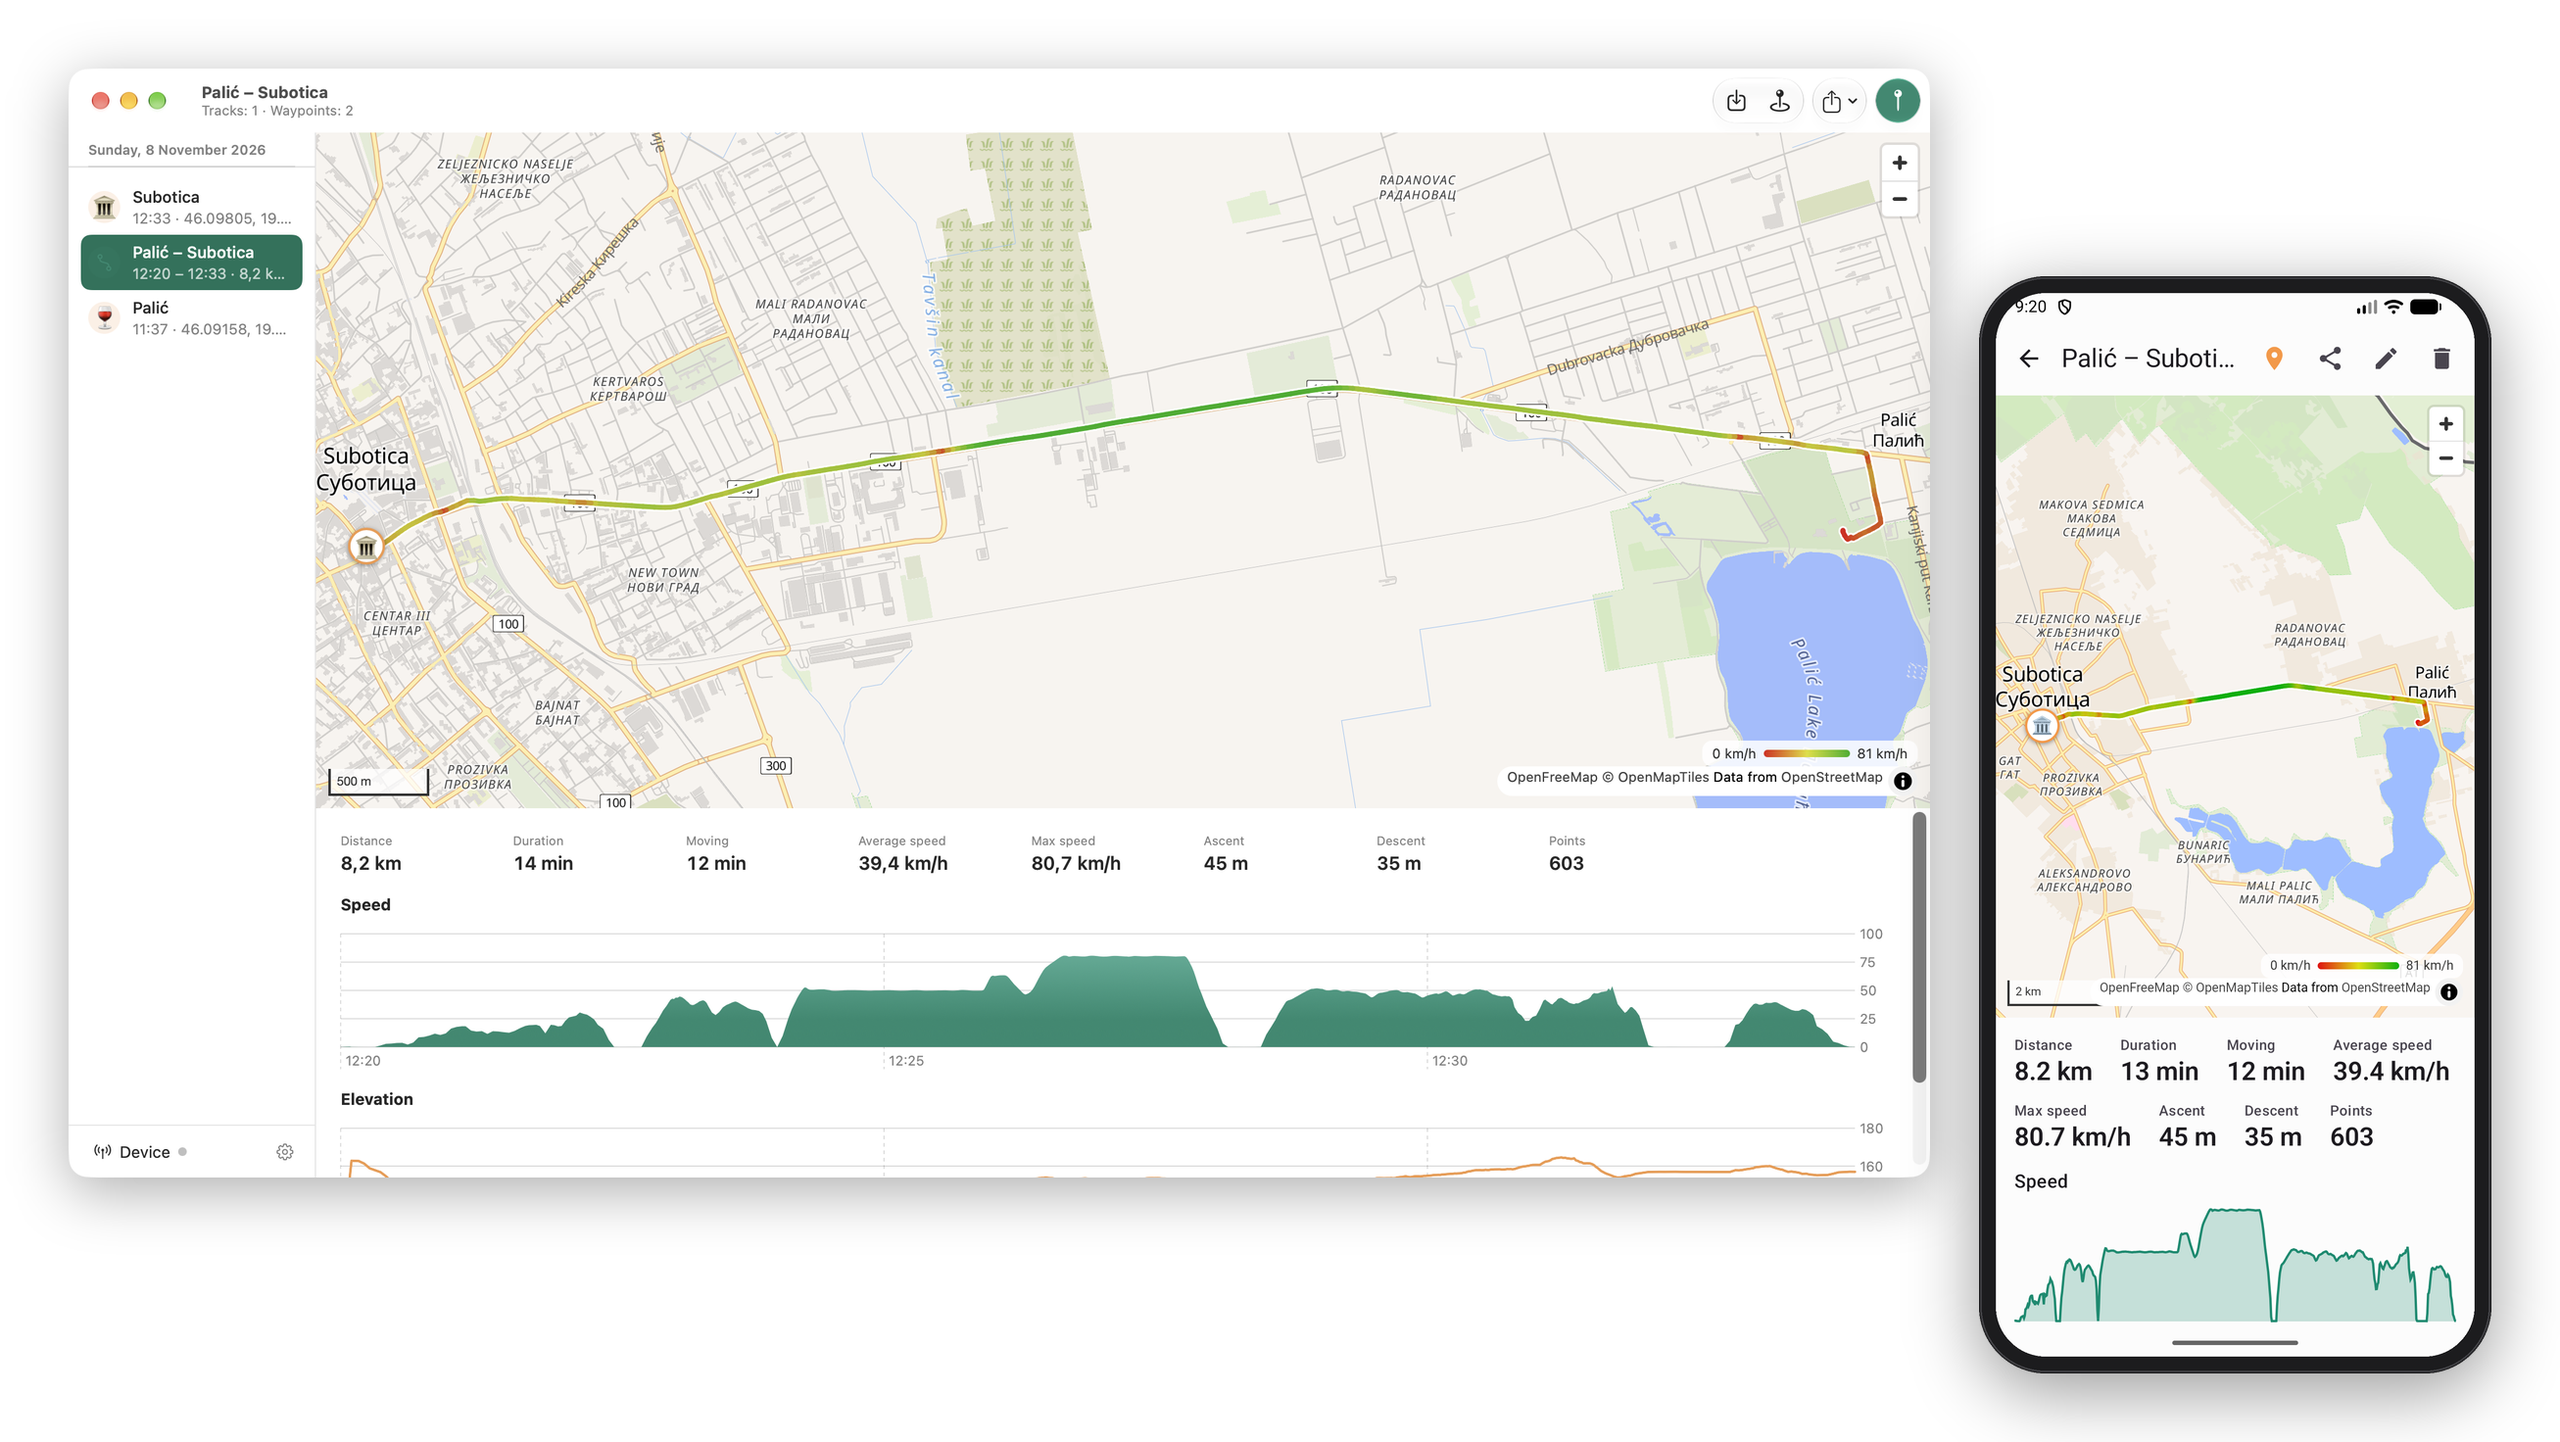
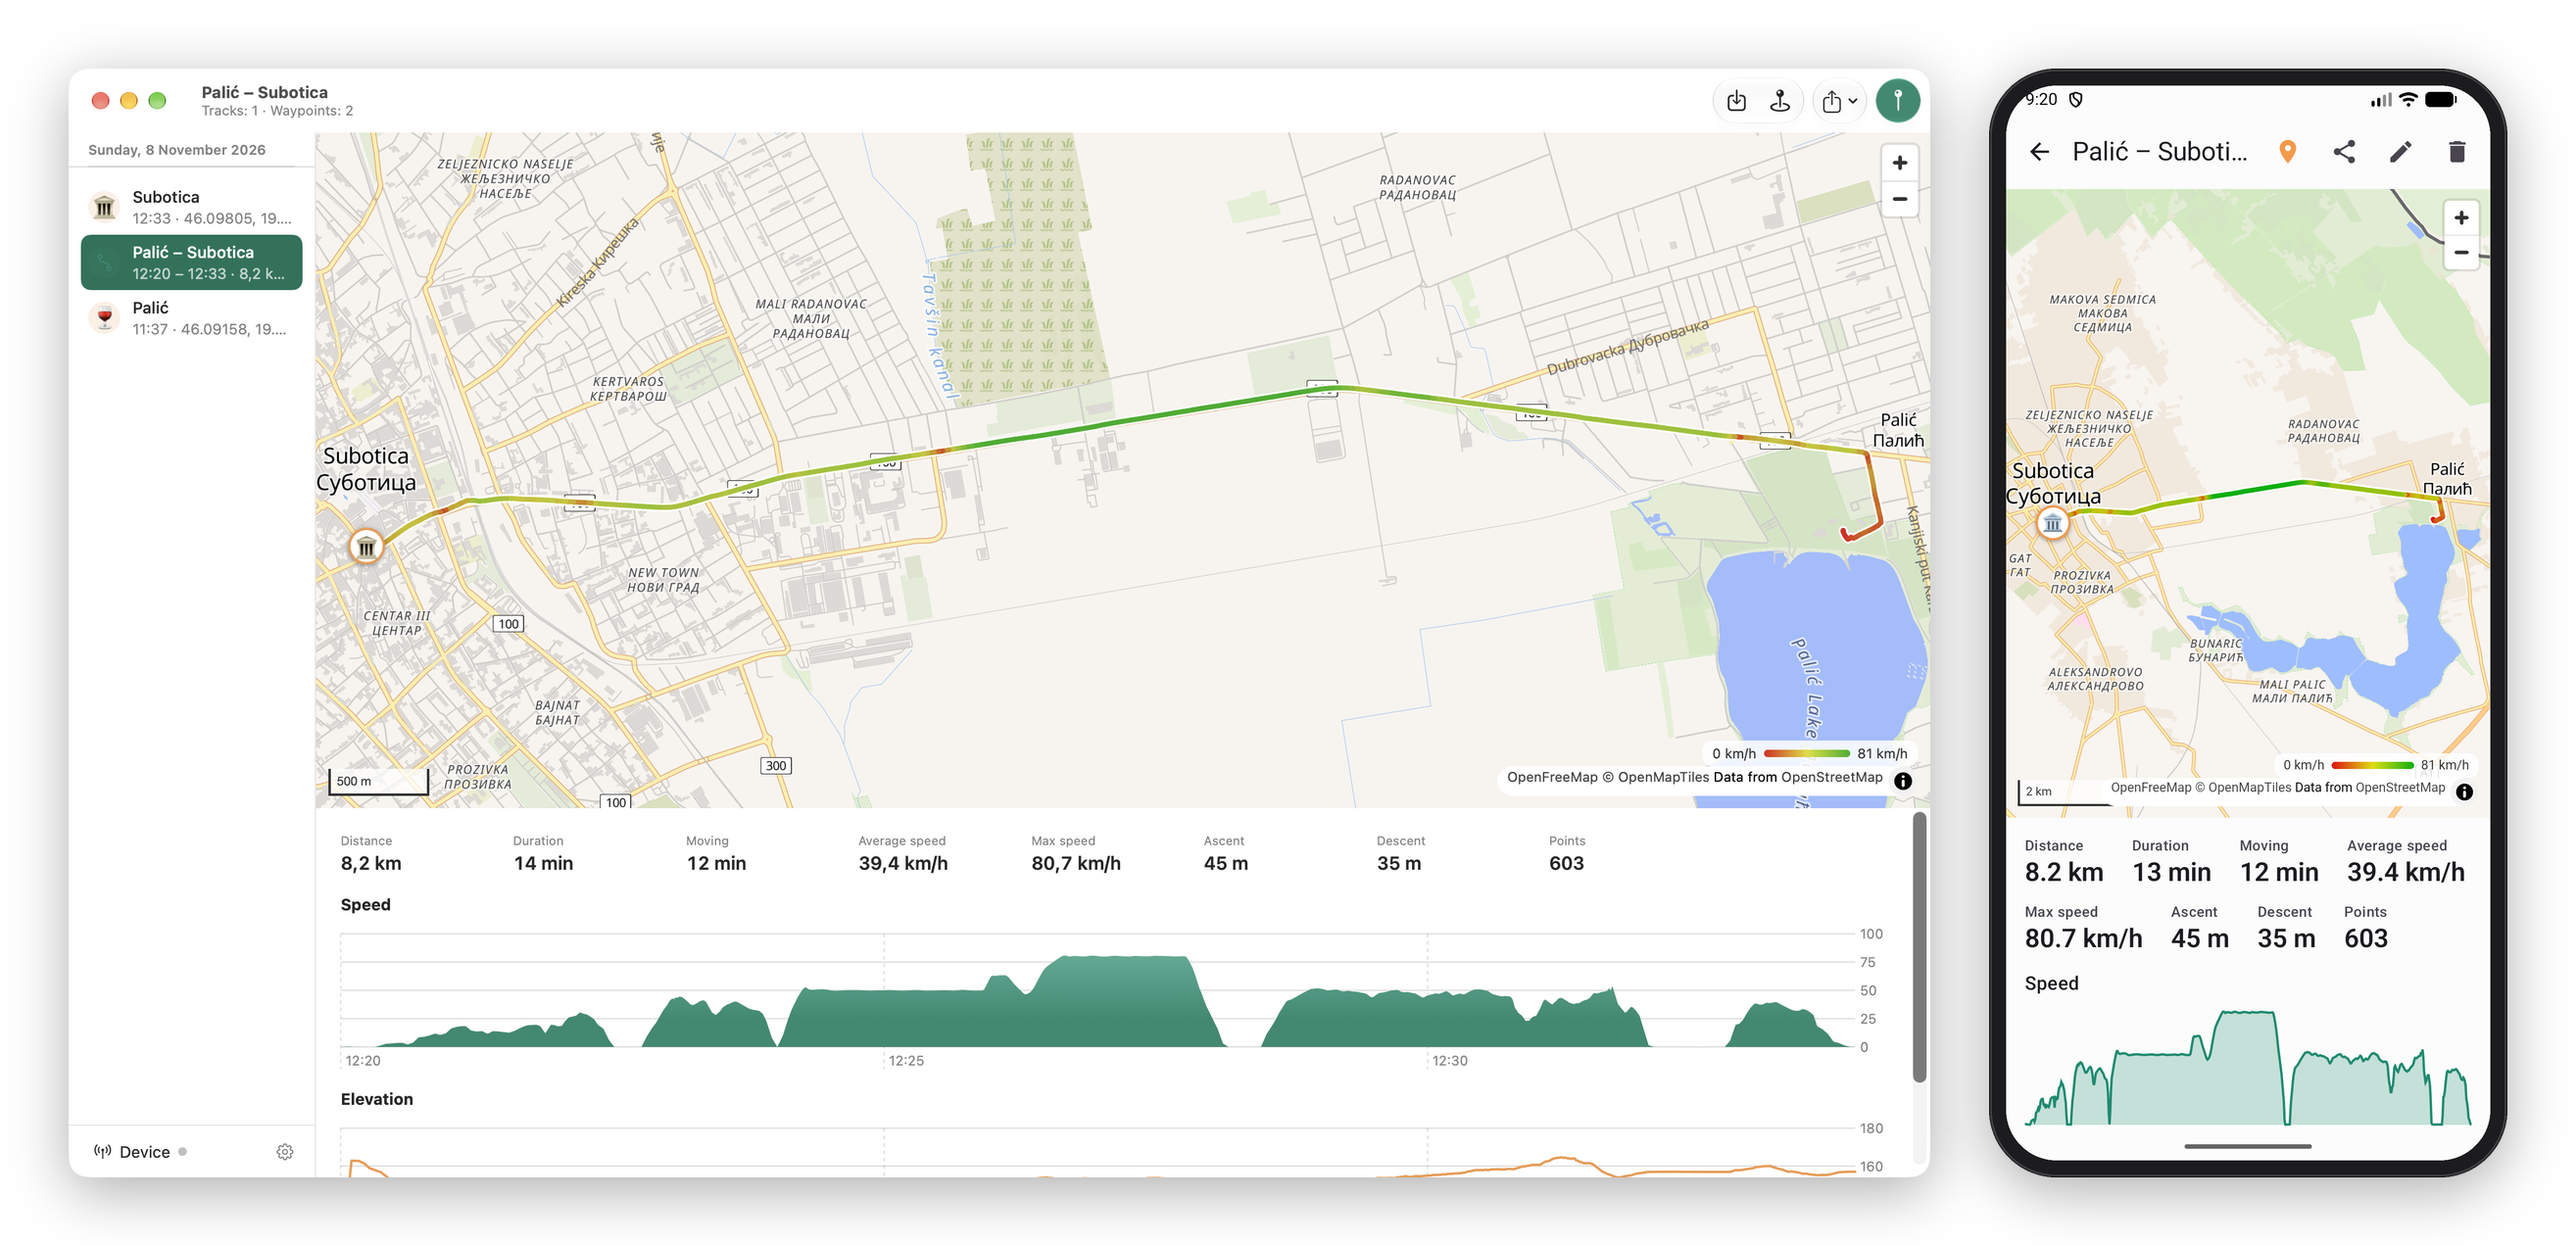
README picture: Mac window and phone the same height, aligned

diff --git a/tools/compose_screenshots.py b/tools/compose_screenshots.py
@@ -59,14 +59,14 @@ def scale(im: Image.Image, width=None, height=None) -> Image.Image:
 def main(src: str):
     load = lambda n: Image.open(os.path.join(src, n + ".png")).convert("RGBA")
 
-    # A Mac window and, a little lower, a phone next to it
+    # A Mac window and a phone of the same height next to it, tops and bottoms aligned
     mac = scale(load("mac-track"), width=1900)
-    ph = phone(load("android-track"), 1120)
+    ph = phone(load("android-track"), mac.height)
     m = 70
-    W, H = m + mac.width + 50 + ph.width + m, m + mac.height + 200 + m
+    W, H = m + mac.width + 60 + ph.width + m, m + mac.height + m
     c = Image.new("RGBA", (W, H), (0, 0, 0, 0))
     shadowed(c, mac, (m, m))
-    shadowed(c, ph, (W - m - ph.width, H - m - ph.height), blur=34, offset=18, alpha=0.4)
+    shadowed(c, ph, (W - m - ph.width, m))
     c.save(os.path.join(OUT, "hero.png"), optimize=True)
 
     # Adding waypoints: the Mac sheet and two Android screens side by side
